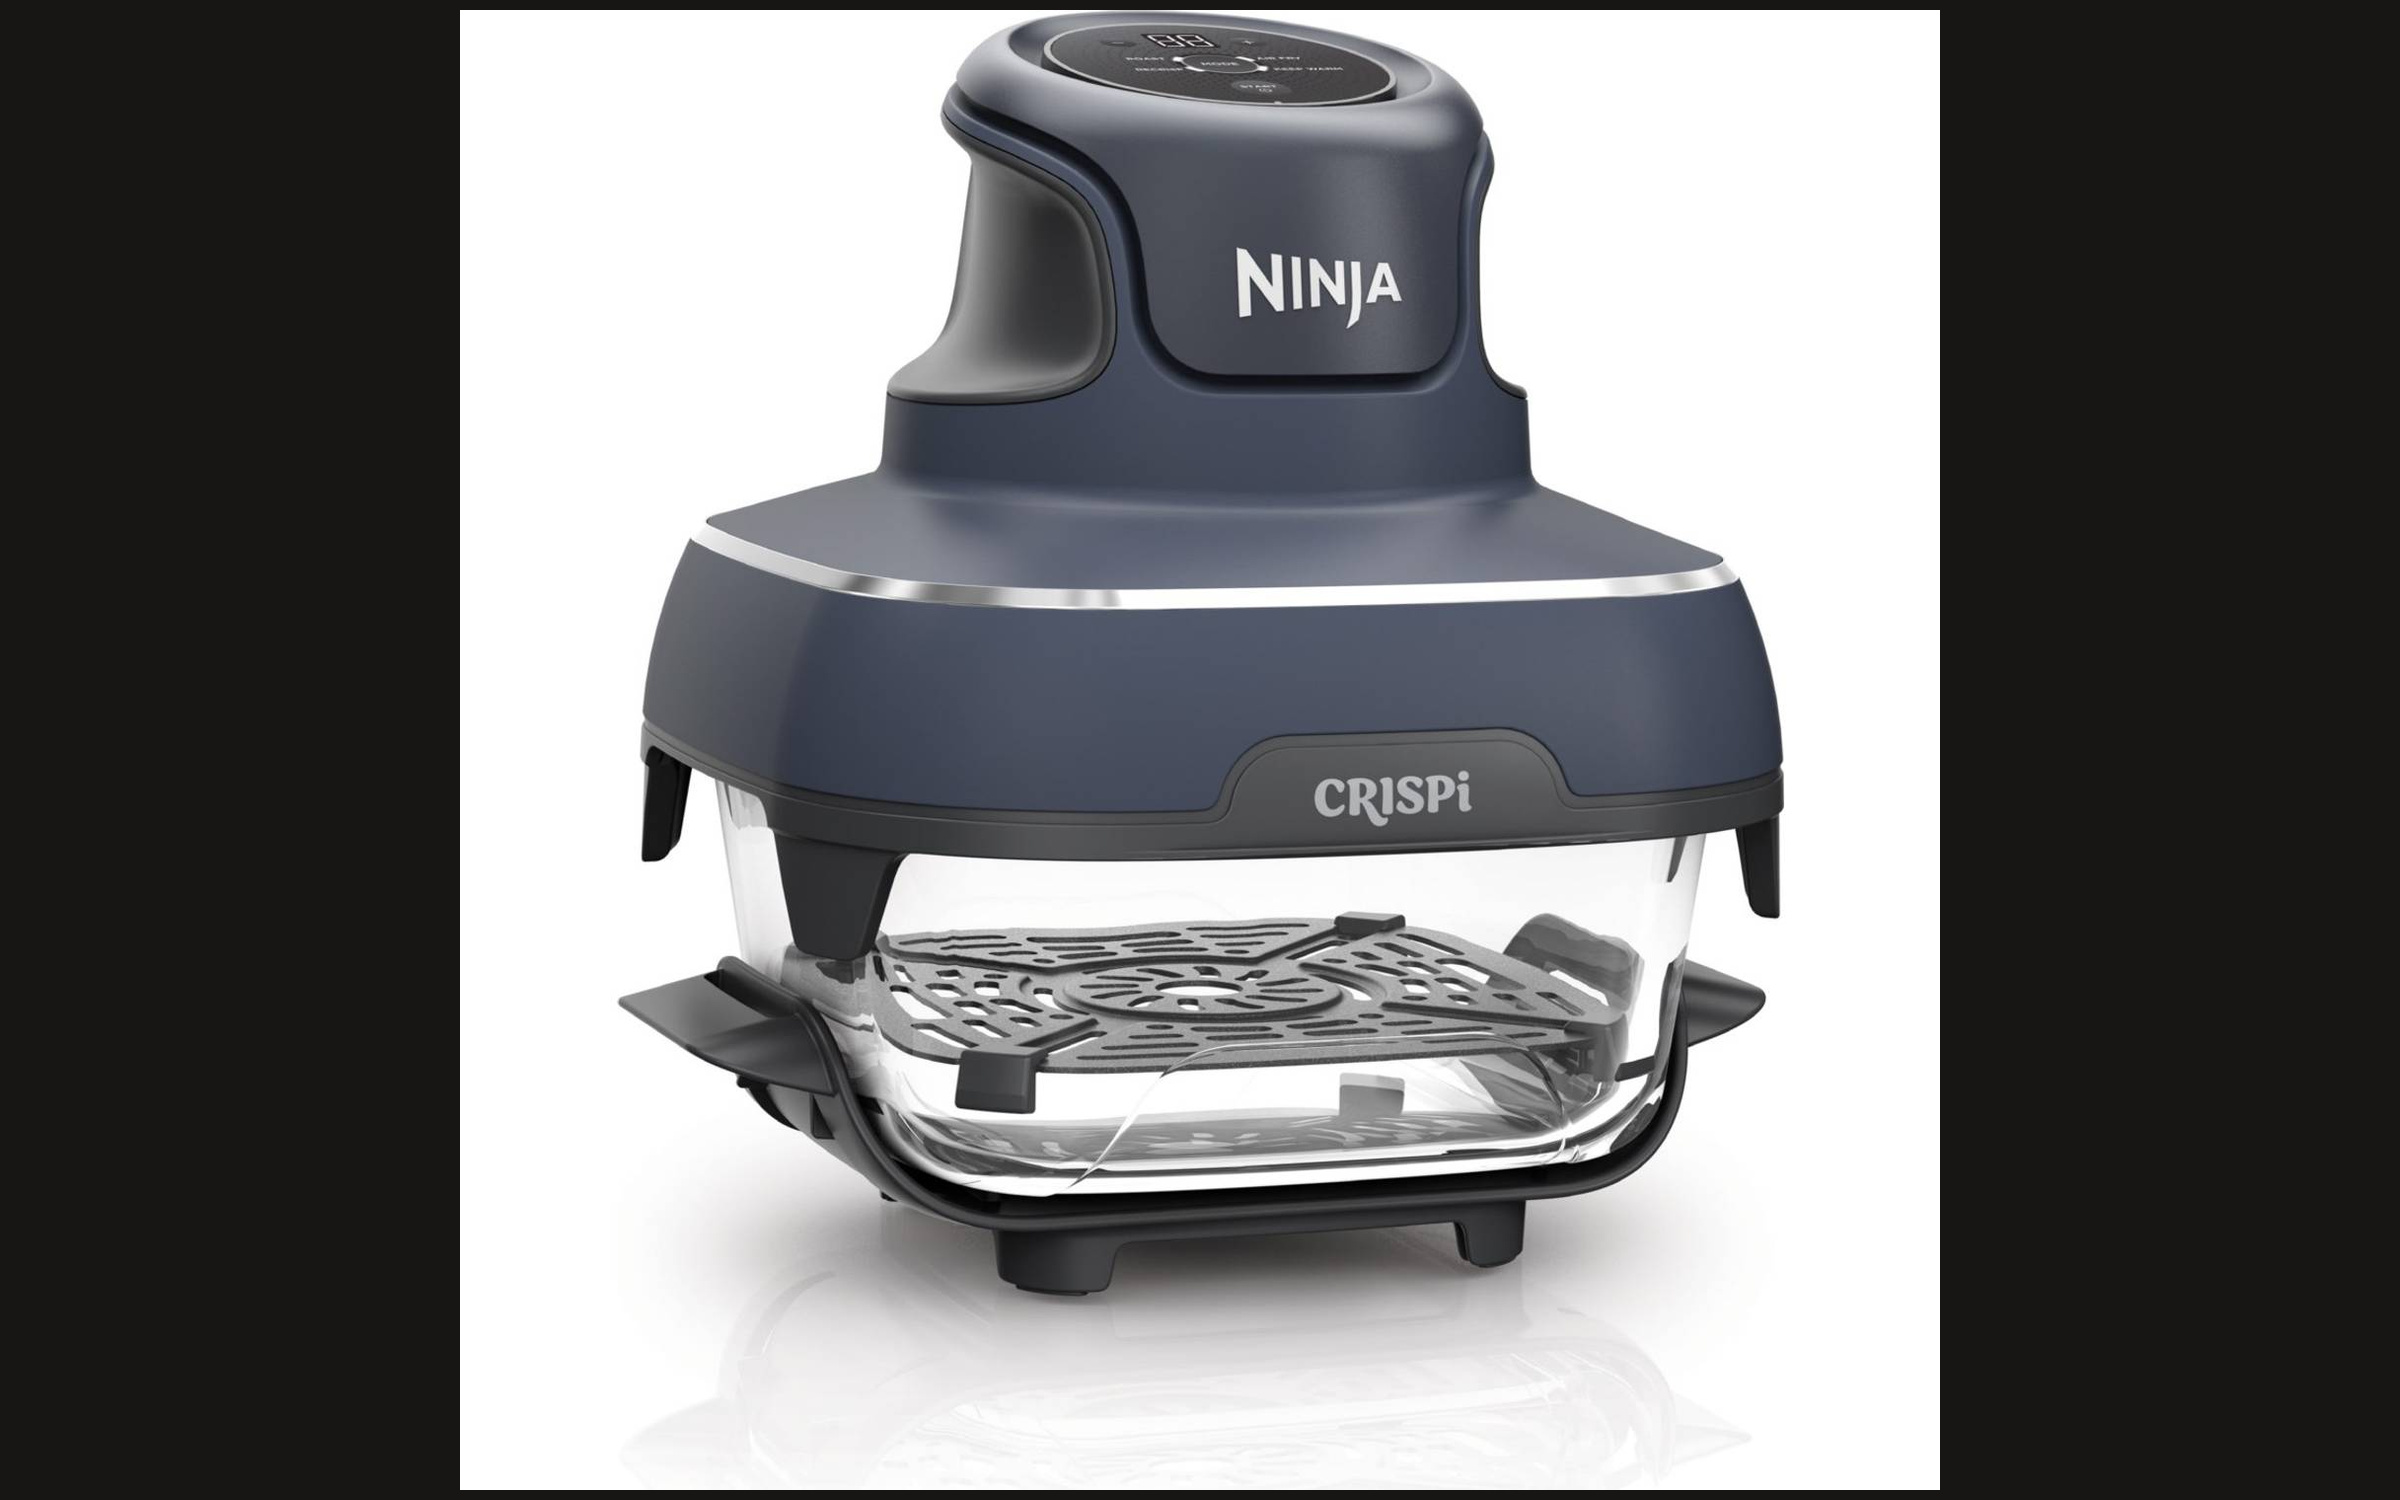
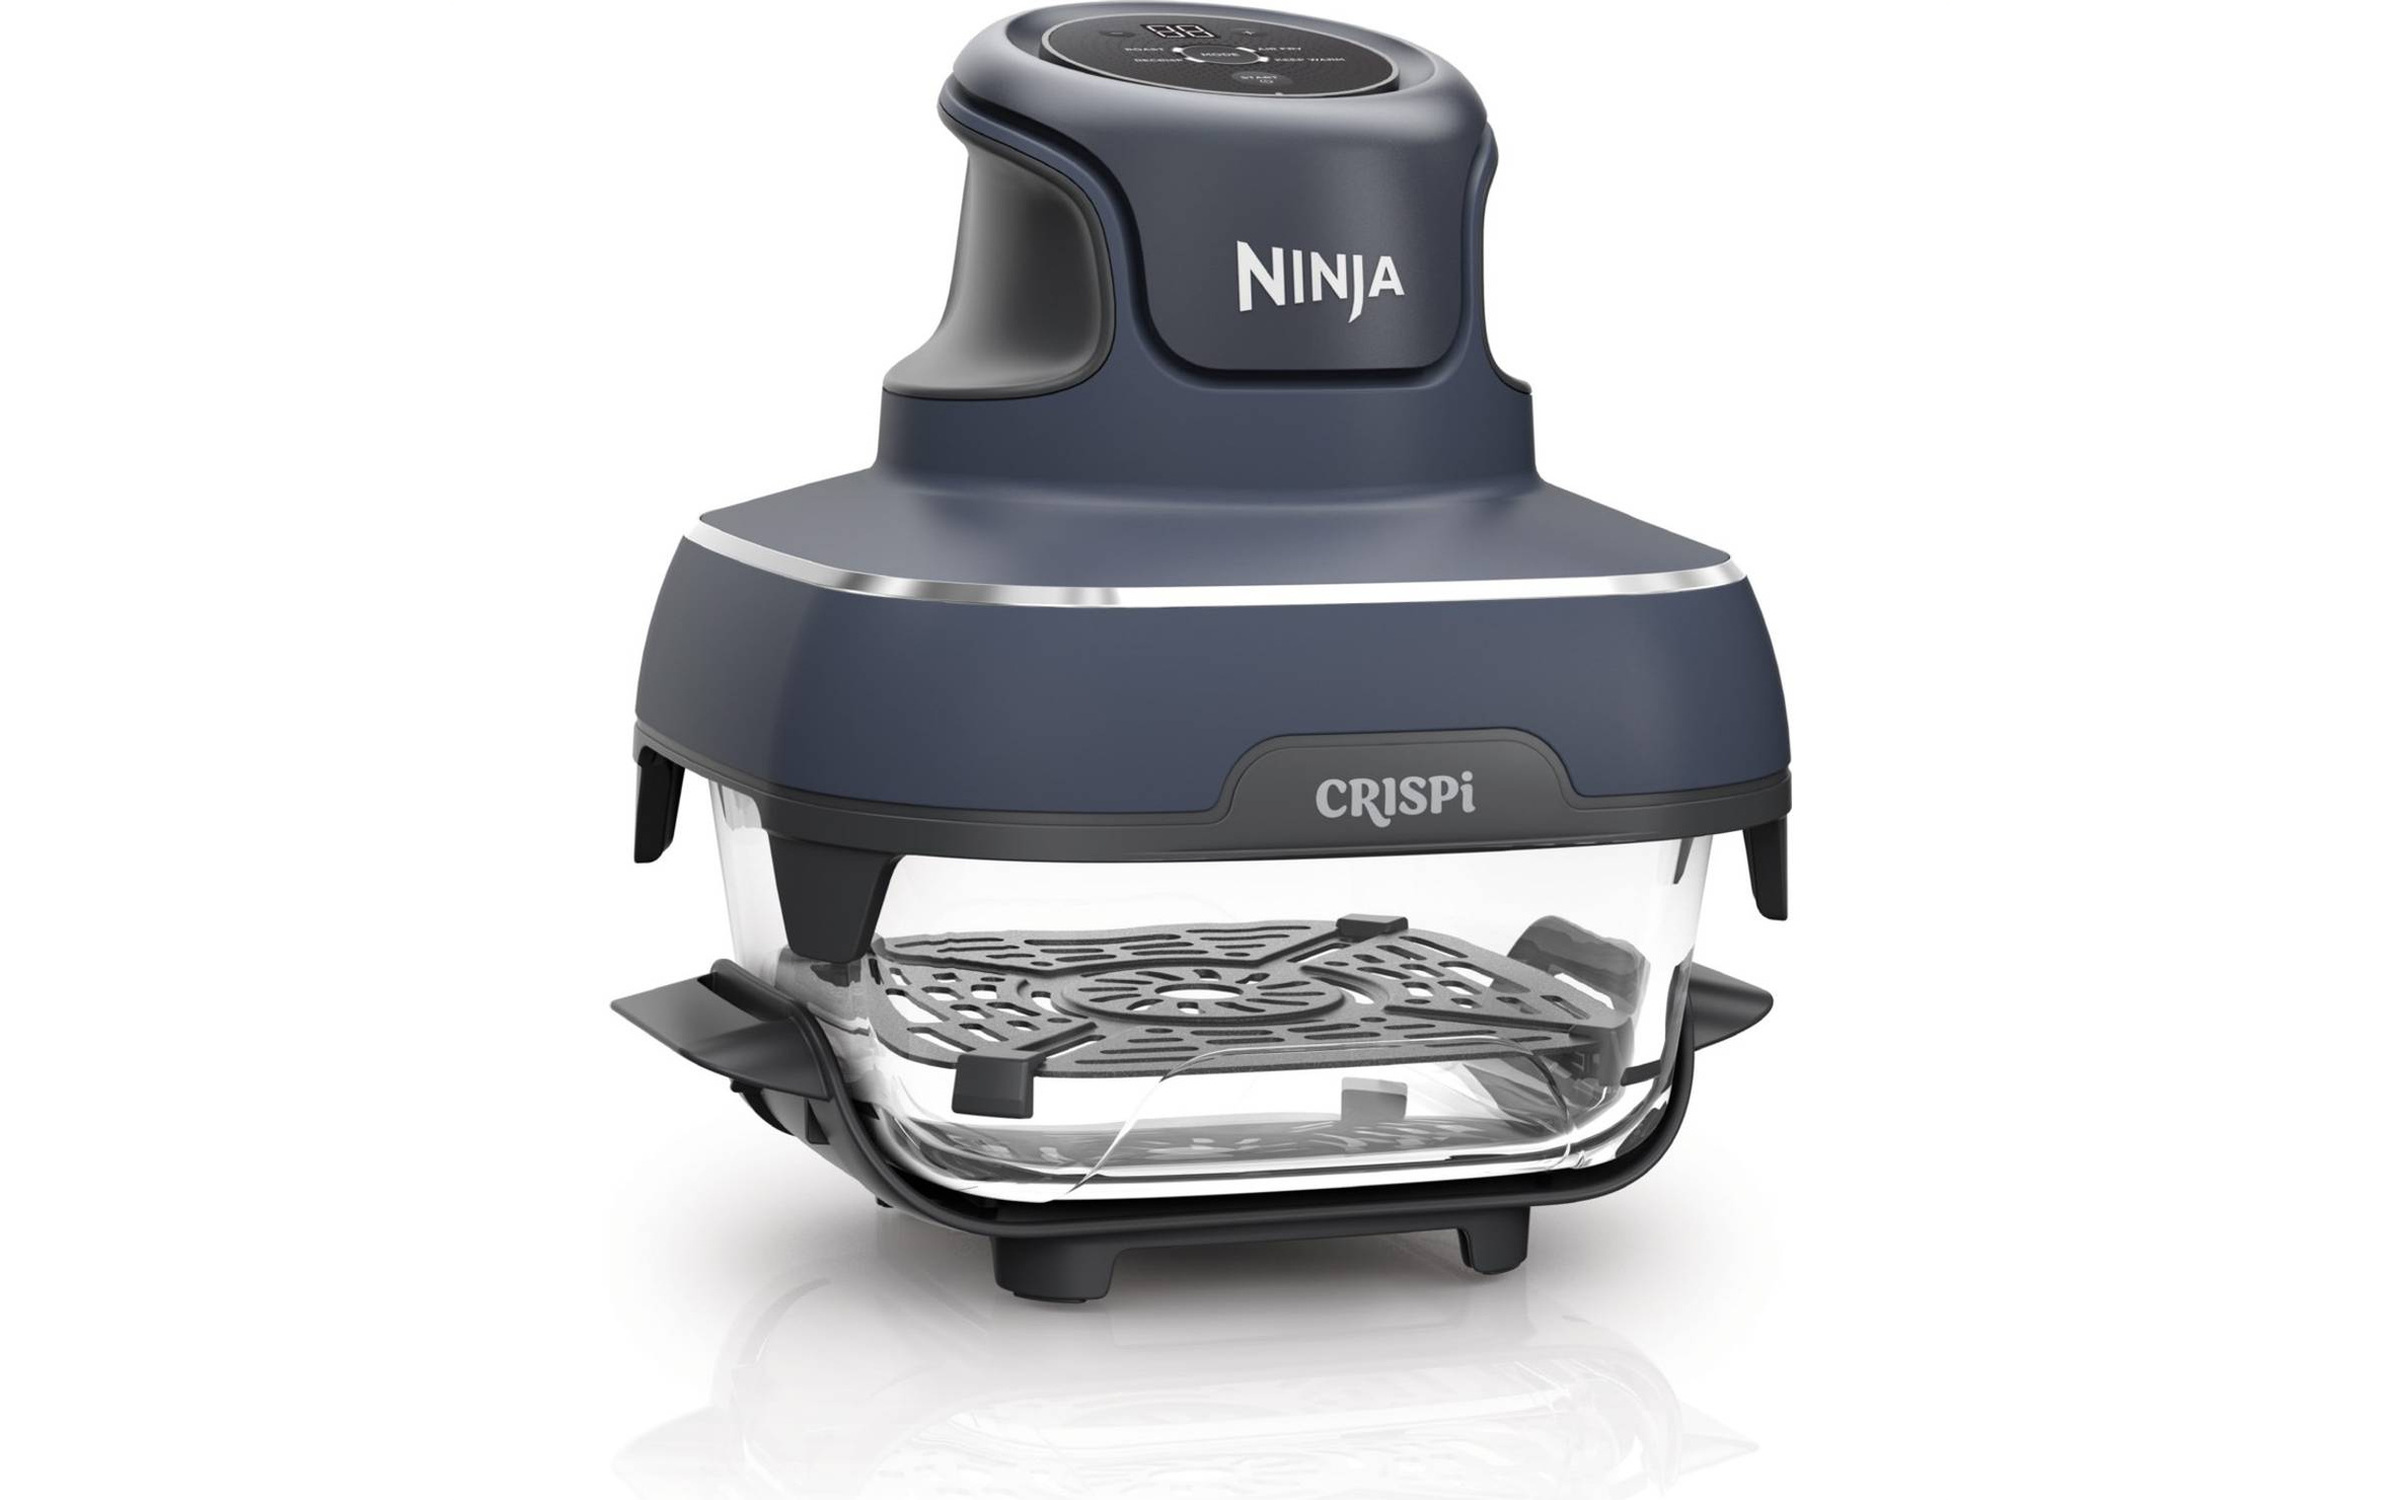
Fyld anmeldelse-bokse med hvid baggrund
Fjern sorte pillarbox-barer i produktfotos, pad med hvid til 16:10,
og brug hvid container + object-contain på hero og index-kort.

diff --git a/components/GuideCard.tsx b/components/GuideCard.tsx
@@ -9,22 +9,38 @@ interface GuideCardProps {
   /** PriceRunner-rating (kun anmeldelser). */
   rating?: number;
   ratingCount?: number;
+  /** Produktfoto på hvid baggrund — fyld boksen med hvid, undgå mørk letterbox. */
+  productShot?: boolean;
 }
 
-export function GuideCard({ guide, href, rating, ratingCount }: GuideCardProps) {
+export function GuideCard({
+  guide,
+  href,
+  rating,
+  ratingCount,
+  productShot = false,
+}: GuideCardProps) {
   return (
     <Link href={href ?? `/guides/${guide.slug}`} className="group block text-left">
       <article>
-        <div className="relative aspect-[16/10] overflow-hidden rounded-2xl border-2 border-bone/20 bg-ash shadow-[4px_4px_0_0_rgba(212,255,0,0.35)] transition-[transform,box-shadow,border-color] duration-300 group-hover:-translate-y-1 group-hover:border-herb group-hover:shadow-[6px_6px_0_0_rgba(212,255,0,0.7)]">
+        <div
+          className={`relative aspect-[16/10] overflow-hidden rounded-2xl border-2 border-bone/20 shadow-[4px_4px_0_0_rgba(212,255,0,0.35)] transition-[transform,box-shadow,border-color] duration-300 group-hover:-translate-y-1 group-hover:border-herb group-hover:shadow-[6px_6px_0_0_rgba(212,255,0,0.7)] ${
+            productShot ? "bg-white" : "bg-ash"
+          }`}
+        >
           <Image
             src={guide.image}
             alt={guide.imageAlt}
             fill
             quality={90}
-            className="object-cover transition-transform duration-500 ease-out group-hover:scale-[1.05]"
+            className={`${
+              productShot ? "object-contain" : "object-cover"
+            } transition-transform duration-500 ease-out group-hover:scale-[1.05]`}
             sizes="(max-width: 768px) 100vw, 50vw"
           />
-          <div className="pointer-events-none absolute inset-0 bg-gradient-to-t from-iron/40 via-transparent to-transparent" />
+          {productShot ? null : (
+            <div className="pointer-events-none absolute inset-0 bg-gradient-to-t from-iron/40 via-transparent to-transparent" />
+          )}
         </div>
         <h2 className="mt-4 font-serif text-xl uppercase leading-snug tracking-wide text-bone transition-colors group-hover:text-herb sm:text-2xl">
           {guide.title}

diff --git a/app/anmeldelser/[slug]/page.tsx b/app/anmeldelser/[slug]/page.tsx
@@ -98,17 +98,16 @@ export default async function AnmeldelsePage({ params }: AnmeldelsePageProps) {
       <JsonLd data={jsonLd} />
 
       <article>
-        <div className="relative aspect-[16/10] w-full overflow-hidden bg-iron md:aspect-[21/9] md:max-h-[520px]">
+        <div className="relative aspect-[16/10] w-full overflow-hidden border-b-2 border-bone/15 bg-white md:aspect-[21/9] md:max-h-[520px]">
           <Image
             src={item.image}
             alt={item.imageAlt}
             fill
             quality={90}
-            className="object-cover object-center"
+            className="object-contain object-center"
             sizes="100vw"
             priority
           />
-          <div className="absolute inset-0 bg-gradient-to-t from-stone/90 via-transparent to-iron/25" />
         </div>
 
         <div className="mx-auto max-w-5xl px-5 md:px-8">

diff --git a/components/AnmeldelseFilters.tsx b/components/AnmeldelseFilters.tsx
@@ -217,6 +217,7 @@ export function AnmeldelseFilters({ items }: AnmeldelseFiltersProps) {
             guide={item}
             rating={item.rating}
             ratingCount={item.ratingCount}
+            productShot
           />
         ))}
       </div>
